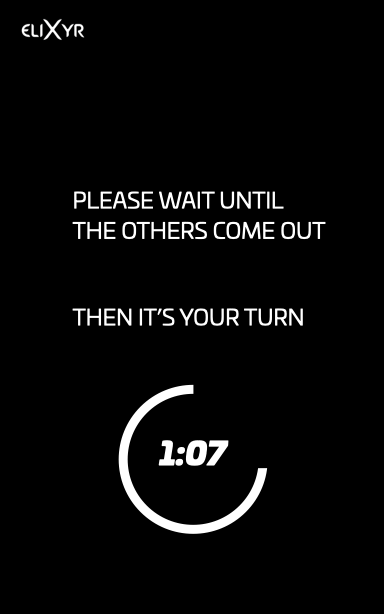
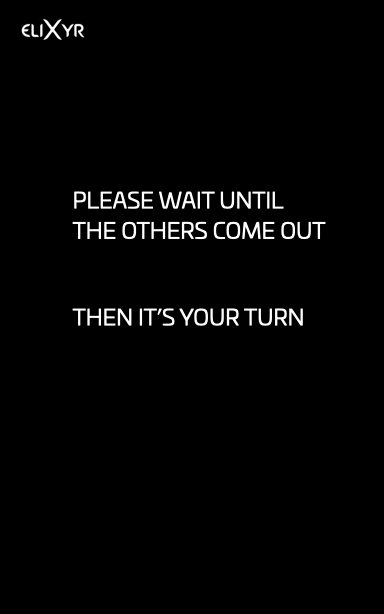
update counter animation

Changed region(s): [[0.2812, 0.6189, 0.6875, 0.8974], [0.4062, 0.7117, 0.5938, 0.7736]]

diff --git a/flask-server/templates/6_please_wait_for_your_Turn.html b/flask-server/templates/6_please_wait_for_your_Turn.html
@@ -27,9 +27,9 @@
         <div class="time">
             <span id="minute">1</span>:<span id="second">30</span>
         </div>
-        <svg width="200" height="200">
-            <circle id="circle1" cx="100" cy="100" r="70"></circle>
-            <circle id="circle2" cx="100" cy="100" r="70"></circle>
+        <svg width="350" height="350">
+            <circle id="circle1" cx="175" cy="175" r="150"></circle>
+            <circle id="circle2" cx="175" cy="175" r="150"></circle>
         </svg>
     </div>
 </div>
